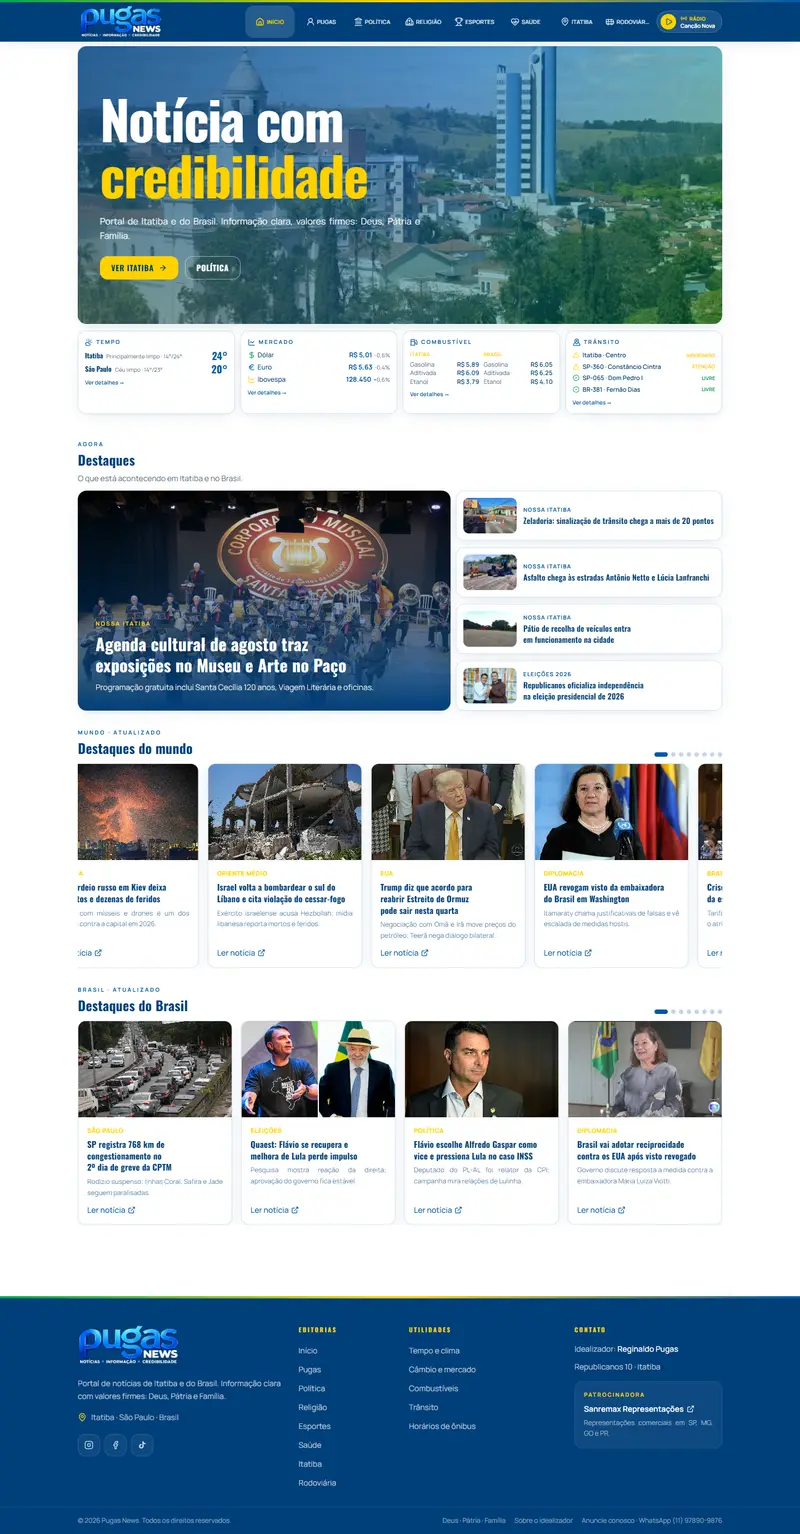
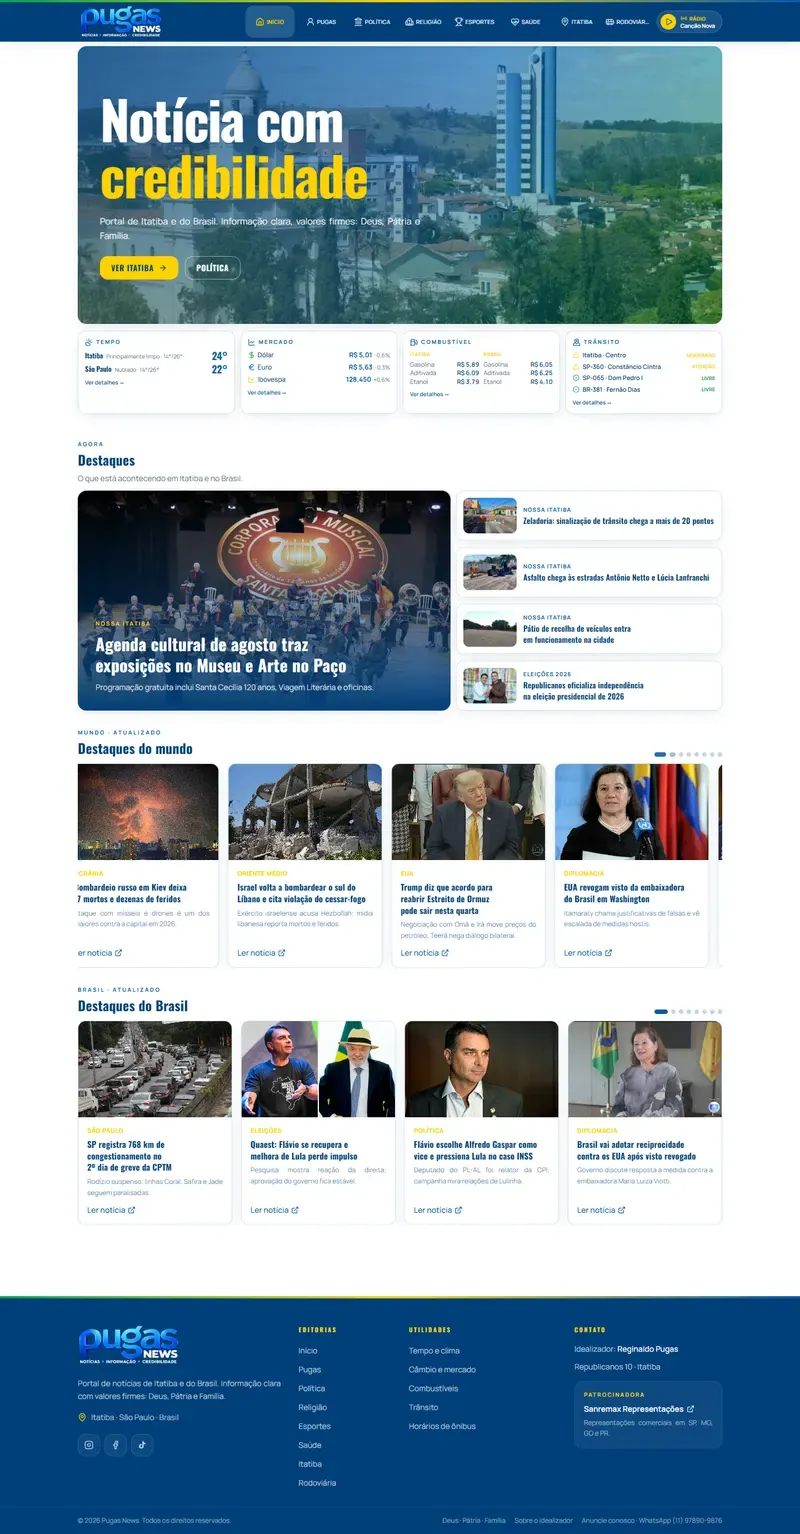
Política e Portfólio: Projeto Morato HbA1c < 7; prints novos da Pugas News

Changed region(s): [[0.0938, 0.4902, 0.9062, 0.6434], [0.2812, 0.0919, 0.3125, 0.1226], [0.2188, 0.0919, 0.25, 0.1226]]

diff --git a/src/data/projetos.ts b/src/data/projetos.ts
@@ -79,6 +79,12 @@ export const projetos = [
     cel: ['/portfolio/padrekelmon-cel.webp', 300, 2615] as [string, number, number],
   },
   {
+    nome: 'Projeto Morato HbA1c < 7', tipo: 'Projeto político', url: 'https://projeto-morato-hba1c.vercel.app/',
+    descricao: 'Projeto de saúde pública de Francisco Morato sobre diabetes, com jornada para pacientes, famílias e professores, dados e prevenção.',
+    lap: ['/portfolio/morato-lap.webp', 720, 1800] as [string, number, number],
+    cel: ['/portfolio/morato-cel.webp', 300, 2615] as [string, number, number],
+  },
+  {
     nome: 'Kimax Institucional', tipo: 'Site institucional', url: 'https://institucional.kimax.com.br/', logo: '/clientes/kimax.webp',
     descricao: 'Site institucional da Kimax, fabricante de produtos de limpeza, com linha de produtos, fornecimento e contato.',
     lap: ['/portfolio/kimaxinst-lap.webp', 720, 1800] as [string, number, number],
